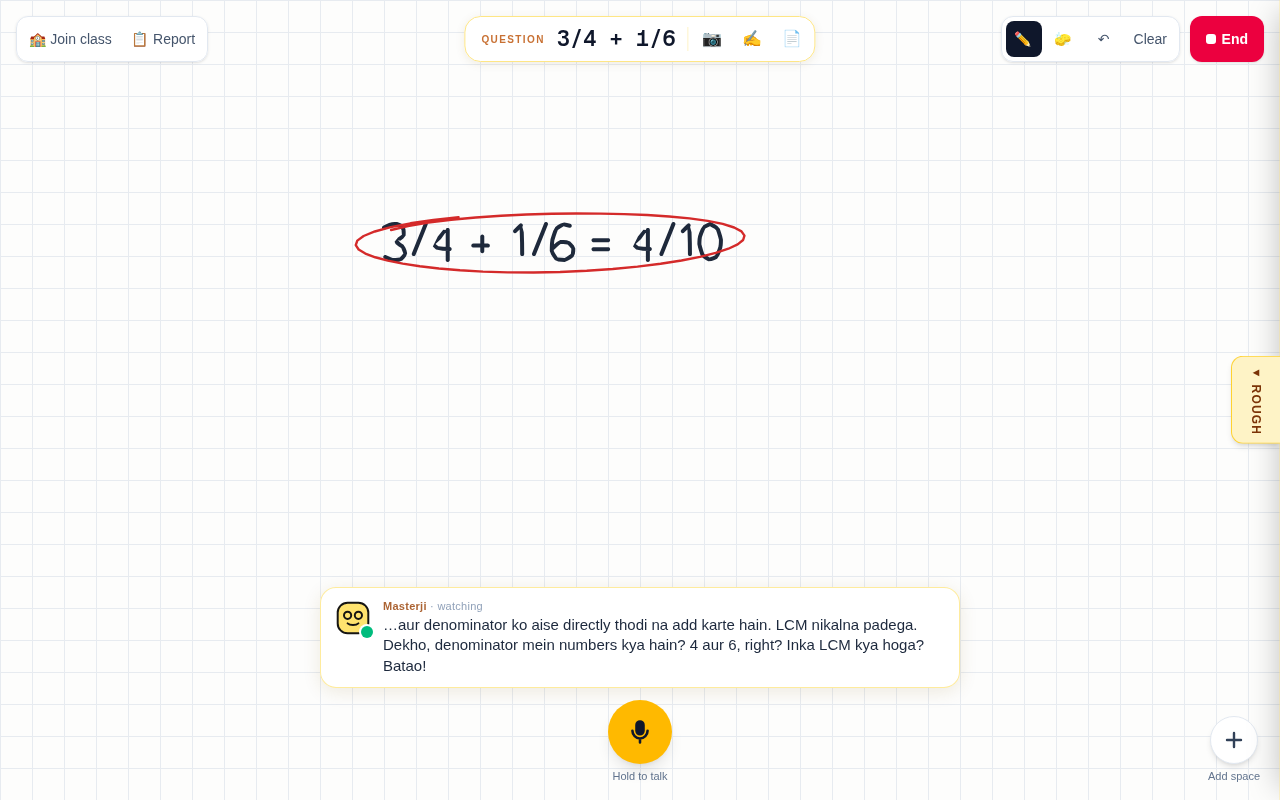
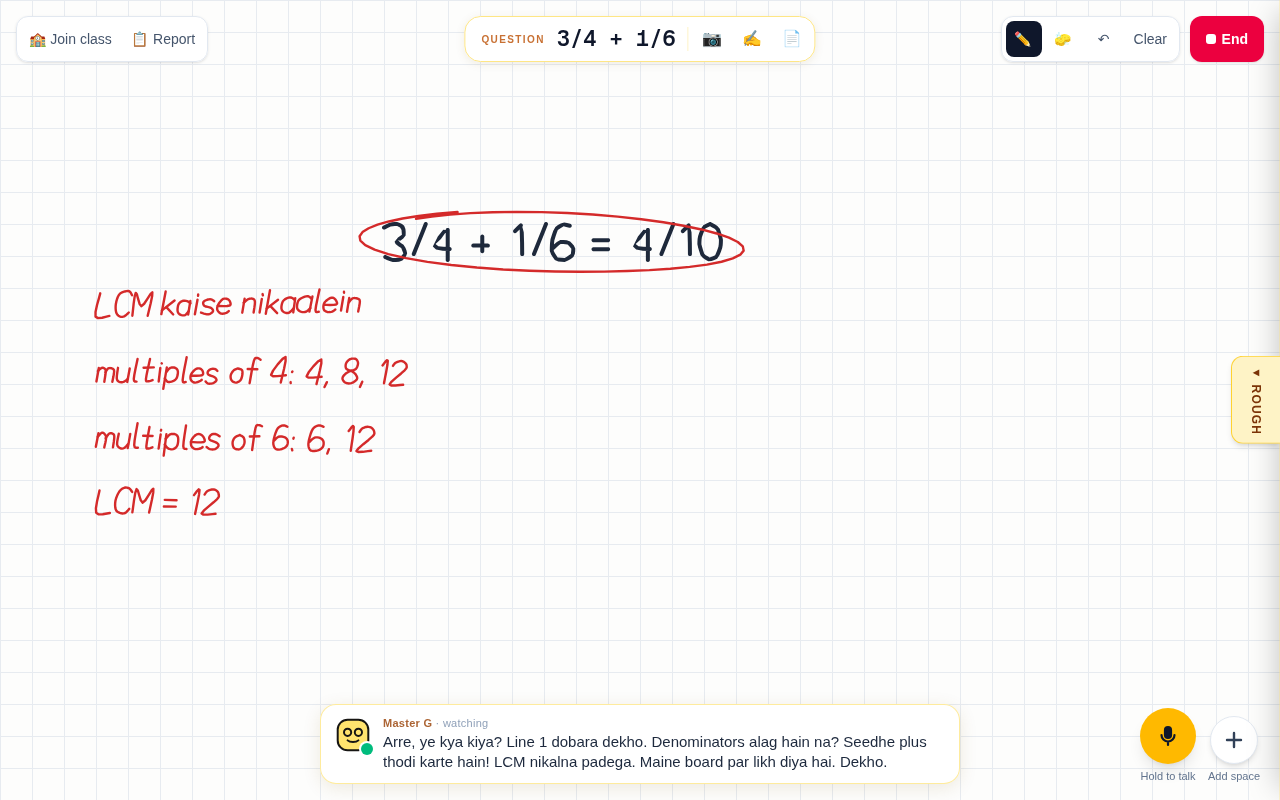
No tool-call text in captions or speech; no double celebration; mic next to "Add space" (#70)
From log 2026-11-01T04-28-28-6j8t:
- He spoke a tool call ("…dekho.call:write_note{clusterId:c5,text:…}") and it reached the caption.
  One cleaner (spokenClean) now strips hidden notes and any tool name with arguments everywhere his
  words reach the screen or the reconnect history (live caption, cut-off caption, server interrupt).
  When call-like text starts in his speech, the audio stops there and the rest of that reply is dropped.
- A final-answer note that waited while he replied, where that reply already praised the same answer,
  goes as context only (he celebrated twice, 7:01 and 7:12). One he hasn't answered still goes out.
- UI: "Ho gaya" -> "Done", "Padho" -> "Read homework". The transcript bubble is the bottom-most
  element at the centre; the mic ("Hold to talk") sits at the bottom right next to "Add space".
- Tests: 6 new voice-smoke checks. Real run at 1280x800 (fake mic, real Live + Flash): he wrote a
  4-line LCM working; 0 of 951 red-ink samples under a panel.

Claude-Session: https://claude.ai/code/session_01SGALwBfyk97xBrjnYSd9Kb

diff --git a/src/lib/voice/voiceService.ts b/src/lib/voice/voiceService.ts
@@ -34,6 +34,20 @@ export function reconnectContext(history: string[], question: string | undefined
     .join("\n");
 }
 
+// Tool names the model must call, never say. Log 2026-11-01T04-28-28-6j8t: he spoke
+// "…dekho.call:write_note{clusterId:c5,text:Haan beta, 6/2, …}" and it reached the caption.
+const TOOL_NAMES = "write_note|write_line|write_working|set_question|draw_graph|show_counting";
+const TOOL_TEXT_START = new RegExp(`\\bcall\\s*:|\\b(?:${TOOL_NAMES})\\s*[({]`, "i");
+// What the child may see of his words: no hidden notes ("[STEP …]"), no tool-call text.
+export function spokenClean(s: string): string {
+  return s
+    .replace(/\[[^\]]*\]?/g, "")
+    .replace(new RegExp(`(?:\\bcall\\s*:\\s*)?\\b(?:${TOOL_NAMES})\\s*[({][^)}]*(?:[)}]+|$)`, "gi"), "")
+    .replace(/\bcall\s*:[\s\S]*$/i, "")
+    .replace(/\s+/g, " ")
+    .trim();
+}
+
 const kidNameFromClass = () => (typeof window === "undefined" ? undefined : safeKidName(getMembership()?.name));
 import { planGraph } from "../redpen/graph";
 import { validCounting } from "../redpen/counting";
@@ -56,6 +70,8 @@ export class MasterjiVoice {
   private offs: (() => void)[] = [];
   private wrong = new Set<string>(); // clusters currently marked wrong, to detect FIXED
   private masterjiLine = "";
+  private lastTurn: { text: string; at: number } | null = null; // his last finished reply, cleaned
+  private pendingSince = 0; // when the oldest queued note was queued
   private kidLine = "";
   private speakingTimer?: ReturnType<typeof setInterval>;
   private wasAudible = false;
@@ -208,7 +224,7 @@ export class MasterjiVoice {
     if (this.player?.speaking || wasGenerating) {
       const frac = this.player?.speaking ? this.player.flush() : 0;
       // The server thinks the child heard everything it generated; the child heard only what played.
-      const words = this.masterjiLine.replace(/\[[^\]]*\]?/g, "").trim().split(/\s+/).filter(Boolean);
+      const words = spokenClean(this.masterjiLine).split(/\s+/).filter(Boolean);
       const heard = words.slice(0, Math.round(words.length * frac)).join(" ");
       if (heard) this.cb.onCaption?.("masterji", heard + " —", true);
       clientLog("voice.interrupt", { by: "kid", masterjiSaid: this.masterjiLine, heardFrac: +frac.toFixed(2), heard });
@@ -266,6 +282,7 @@ export class MasterjiVoice {
   note(text: string): void {
     if (this.busy()) {
       clientLog("voice.note_queued", { text });
+      if (!this.pending.length) this.pendingSince = performance.now();
       this.pending.push(text);
       return;
     }
@@ -289,9 +306,19 @@ export class MasterjiVoice {
 
   private flushNotes(): void {
     if (this.pending.length === 0 || this.busy()) return;
-    const text = this.pending.join("\n");
+    // A final-answer note that waited while he replied, and that reply already praised that very answer:
+    // send it as context only, or he celebrates twice (log 2026-11-01T04-28-28-6j8t, 7:01 and 7:12).
+    const after = this.lastTurn && this.lastTurn.at > this.pendingSince ? this.lastTurn.text.replace(/\s+/g, "").toLowerCase() : "";
+    const keep: string[] = [];
+    for (const t of this.pending) {
+      const wrote = t.startsWith("[FINAL ANSWER CORRECT") ? t.match(/child wrote: ([^|\]]+)/)?.[1]?.replace(/\s+/g, "").toLowerCase() : undefined;
+      if (wrote && after.includes(wrote)) {
+        clientLog("voice.final_note_already_answered", { note: t, said: this.lastTurn?.text });
+        this.quietNote(`${t} (You already praised this answer in your last reply: don't praise it again; continue from there.)`);
+      } else keep.push(t);
+    }
     this.pending = [];
-    this.sendNote(text, true);
+    if (keep.length) this.sendNote(keep.join("\n"), true);
   }
 
   private status(s: VoiceStatus, detail?: string): void {
@@ -510,7 +537,7 @@ export class MasterjiVoice {
       this.generating = false;
       this.player?.flush();
       clientLog("voice.interrupted_by_server", { masterjiSaid: this.masterjiLine });
-      if (this.masterjiLine) this.cb.onCaption?.("masterji", this.masterjiLine + " —", true);
+      if (spokenClean(this.masterjiLine)) this.cb.onCaption?.("masterji", spokenClean(this.masterjiLine) + " —", true);
       this.masterjiLine = "";
     }
     for (const part of sc?.modelTurn?.parts ?? []) {
@@ -528,13 +555,15 @@ export class MasterjiVoice {
       this.masterjiLine += sc.outputTranscription.text;
       // The model sometimes echoes a hidden note ("[STEP c3 ...]"): never show it to the child.
       this.runSpokenTools(this.masterjiLine);
-      const shown = this.masterjiLine
-        .replace(/\[[^\]]*\]?/g, "")
-        .replace(/write_(note|line)\s*\([^)]*\)?/gi, "")
-        .replace(/\s+/g, " ")
-        .trim();
-      if (/\[|write_(note|line)/i.test(this.masterjiLine)) clientLog("voice.echoed_text_hidden", { raw: this.masterjiLine });
+      const shown = spokenClean(this.masterjiLine);
+      if (shown !== this.masterjiLine.replace(/\s+/g, " ").trim()) clientLog("voice.echoed_text_hidden", { raw: this.masterjiLine });
       this.cb.onCaption?.("masterji", shown, false);
+      // He started saying a tool call out loud: stop the audio there and drop the rest of this reply.
+      if (TOOL_TEXT_START.test(this.masterjiLine)) {
+        this.player?.flush();
+        this.discardStale = true;
+        clientLog("voice.spoken_tool_text_cut", { said: this.masterjiLine });
+      }
     }
     if (sc?.inputTranscription?.text) {
       this.kidLine += sc.inputTranscription.text;
@@ -548,8 +577,9 @@ export class MasterjiVoice {
       this.player?.endTurn();
       this.replyOwedAt = 0;
       this.commitKid();
-      const said = this.masterjiLine.trim();
+      const said = spokenClean(this.masterjiLine);
       if (said) this.history.push(`you: ${said.slice(0, 160)}`);
+      if (said) this.lastTurn = { text: said, at: performance.now() };
       if (this.praiseTurn && said) this.recentPraise = [...this.recentPraise, said.replace(/\[[^\]]*\]?/g, "").trim().slice(0, 50)].slice(-2);
       this.praiseTurn = false;
       this.history = this.history.slice(-12);

diff --git a/src/components/voice/VoiceBar.tsx b/src/components/voice/VoiceBar.tsx
@@ -135,37 +135,38 @@ export default function VoiceBar({ children }: { children?: ReactNode }) {
           </div>
         )}
 
-        <div className="pointer-events-auto flex flex-col items-center gap-1">
-          {live ? (
-            <>
-              <button
-                aria-label="Hold to talk"
-                title="Hold to talk (or hold Space)"
-                className={`relative flex size-16 select-none items-center justify-center rounded-full shadow-lg transition active:scale-95 ${talking ? "bg-rose-500 text-white" : "bg-amber-400 text-slate-900 hover:bg-amber-300"}`}
-                onPointerDown={down}
-                onPointerUp={up}
-                onPointerLeave={() => talking && up()}
-                onContextMenu={(e) => e.preventDefault()}
-              >
-                {talking && <span className="absolute inset-0 animate-ping rounded-full bg-rose-400/60" aria-hidden="true" />}
-                <svg viewBox="0 0 24 24" className="relative size-7" fill="none" stroke="currentColor" strokeWidth="2.2" strokeLinecap="round" strokeLinejoin="round" aria-hidden="true">
-                  <rect x="9" y="3" width="6" height="11" rx="3" fill="currentColor" />
-                  <path d="M5.5 11a6.5 6.5 0 0 0 13 0M12 17.5V21" />
-                </svg>
-              </button>
-              <span className="text-[11px] font-medium text-slate-500">{talking ? "Listening… let go to send" : "Hold to talk"}</span>
-            </>
-          ) : (
-            <button className="flex h-12 items-center gap-2 rounded-full bg-slate-900 px-6 text-sm font-semibold text-white shadow-lg transition hover:bg-slate-800 active:scale-95" onClick={start}>
-              <svg viewBox="0 0 24 24" className="size-5" fill="none" stroke="currentColor" strokeWidth="2.2" strokeLinecap="round" aria-hidden="true">
-                <rect x="9" y="3" width="6" height="11" rx="3" fill="currentColor" />
-                <path d="M5.5 11a6.5 6.5 0 0 0 13 0M12 17.5V21" />
-              </svg>
-              Start Masterji
-            </button>
-          )}
-        </div>
+        {!live && (
+          <button className="pointer-events-auto flex h-12 items-center gap-2 rounded-full bg-slate-900 px-6 text-sm font-semibold text-white shadow-lg transition hover:bg-slate-800 active:scale-95" onClick={start}>
+            <svg viewBox="0 0 24 24" className="size-5" fill="none" stroke="currentColor" strokeWidth="2.2" strokeLinecap="round" aria-hidden="true">
+              <rect x="9" y="3" width="6" height="11" rx="3" fill="currentColor" />
+              <path d="M5.5 11a6.5 6.5 0 0 0 13 0M12 17.5V21" />
+            </svg>
+            Start Masterji
+          </button>
+        )}
       </div>
+
+      {/* Hold to talk: bottom right, next to "Add space", where a child's hand rests on a tablet. */}
+      {live && (
+        <div data-overlay="bottom" className="fixed right-[5.25rem] bottom-4 z-10 flex flex-col items-center gap-1">
+          <button
+            aria-label="Hold to talk"
+            title="Hold to talk (or hold Space)"
+            className={`relative flex size-14 select-none items-center justify-center rounded-full shadow-lg transition active:scale-95 ${talking ? "bg-rose-500 text-white" : "bg-amber-400 text-slate-900 hover:bg-amber-300"}`}
+            onPointerDown={down}
+            onPointerUp={up}
+            onPointerLeave={() => talking && up()}
+            onContextMenu={(e) => e.preventDefault()}
+          >
+            {talking && <span className="absolute inset-0 animate-ping rounded-full bg-rose-400/60" aria-hidden="true" />}
+            <svg viewBox="0 0 24 24" className="relative size-6" fill="none" stroke="currentColor" strokeWidth="2.2" strokeLinecap="round" strokeLinejoin="round" aria-hidden="true">
+              <rect x="9" y="3" width="6" height="11" rx="3" fill="currentColor" />
+              <path d="M5.5 11a6.5 6.5 0 0 0 13 0M12 17.5V21" />
+            </svg>
+          </button>
+          <span className="text-[11px] font-medium text-slate-500">{talking ? "Listening…" : "Hold to talk"}</span>
+        </div>
+      )}
     </>
   );
 }

diff --git a/scripts/voice-smoke.ts b/scripts/voice-smoke.ts
@@ -5,7 +5,7 @@ import { bus } from "../src/lib/bus";
 import type { Verdict } from "../src/lib/types";
 import { kindOf } from "../src/lib/brain/kind";
 import "../src/lib/sessionState";
-import { MasterjiVoice } from "../src/lib/voice/voiceService";
+import { MasterjiVoice, spokenClean } from "../src/lib/voice/voiceService";
 
 // clientLog posts to /api/log: keep those events here instead.
 const logged: { type: string; data: Record<string, unknown> }[] = [];
@@ -180,6 +180,39 @@ async function main() {
   h.turn("Haan, graph dekho.");
   ok(h.notes().length === n + 1, "and goes out once that reply ends");
   off();
+  h.done();
+}
+
+// ---- log 2026-11-01T04-28-28-6j8t: tool-call text in his speech, and a double celebration ----
+{
+  const raw = "Haan toh 6/2 kitna hua? Maine board par likh diya hai, dekho.call:write_note{clusterId:c5,text:Haan beta, 6/2, lekin iska answer kitna aayega?";
+  ok(spokenClean(raw) === "Haan toh 6/2 kitna hua? Maine board par likh diya hai, dekho.", `tool-call text never reaches the caption (${JSON.stringify(spokenClean(raw))})`);
+  ok(spokenClean('Dekho [STEP c3 CORRECT] ye write_note("c2", "LCM") sahi hai') === "Dekho ye sahi hai", "old forms still hidden: [notes] and write_note(...)");
+  ok(spokenClean("Chalo, draw_graph({lines: [y = 2x]}) dekho") === "Chalo, dekho", "any tool name with arguments is hidden");
+  const h = harness();
+  h.question("2x + 5 = 11");
+  h.turn("Namaste beta!");
+  const priv = h.v as unknown as { onMessage(m: LiveServerMessage): void; discardStale: boolean };
+  priv.onMessage({ serverContent: { outputTranscription: { text: raw } } } as LiveServerMessage);
+  ok(priv.discardStale && logged.some((l) => l.type === "voice.spoken_tool_text_cut"), "speaking a tool call stops the audio and drops the rest of that reply");
+  h.turn();
+  // 7:01: the final-answer note waited while he replied to the child; that reply already praised x = 3.
+  await h.v.startTalking();
+  h.verdict({ clusterId: "c6", status: "correct", text: "x=3" });
+  h.v.stopTalking();
+  await new Promise((r) => setTimeout(r, 300));
+  const n = h.notes().length;
+  h.turn("Shabash! Bilkul sahi, x = 3! Aaj ka saara homework khatam.");
+  ok(h.notes().length === n && logged.some((l) => l.type === "voice.final_note_already_answered"), "a queued final-answer note he already answered is not sent as a new turn (no second celebration)");
+  // ...but one he has NOT answered yet still goes out
+  h.question("3/4 + 1/6");
+  await h.v.startTalking();
+  h.verdict({ clusterId: "c7", status: "correct", text: "11/12" });
+  h.v.stopTalking();
+  await new Promise((r) => setTimeout(r, 300));
+  const m = h.notes().length;
+  h.turn("Haan beta, likho.");
+  ok(h.notes().length === m + 1 && /FINAL ANSWER CORRECT/.test(h.notes().at(-1) ?? ""), "a final-answer note he hasn't answered still goes out");
   h.done();
 }
 

diff --git a/src/components/question/QuestionBox.tsx b/src/components/question/QuestionBox.tsx
@@ -93,7 +93,7 @@ function WritePad({ onDone, onCancel }: { onDone: (png: string) => void; onCance
           Clear
         </button>
         <button type="button" className="rounded-md bg-slate-900 px-3 py-1 text-white" onClick={() => strokes.current.length && onDone(ref.current!.toDataURL("image/png"))}>
-          Ho gaya
+          Done
         </button>
       </div>
     </div>
@@ -134,7 +134,7 @@ function HomeworkPanel({ onImage, onText, onCancel }: { onImage: (f: File) => vo
           Cancel
         </button>
         <button type="button" className="rounded-md bg-slate-900 px-3 py-1 text-white disabled:opacity-40" disabled={!text.trim()} onClick={() => onText(text.trim())}>
-          Padho
+          Read homework
         </button>
       </div>
     </div>
